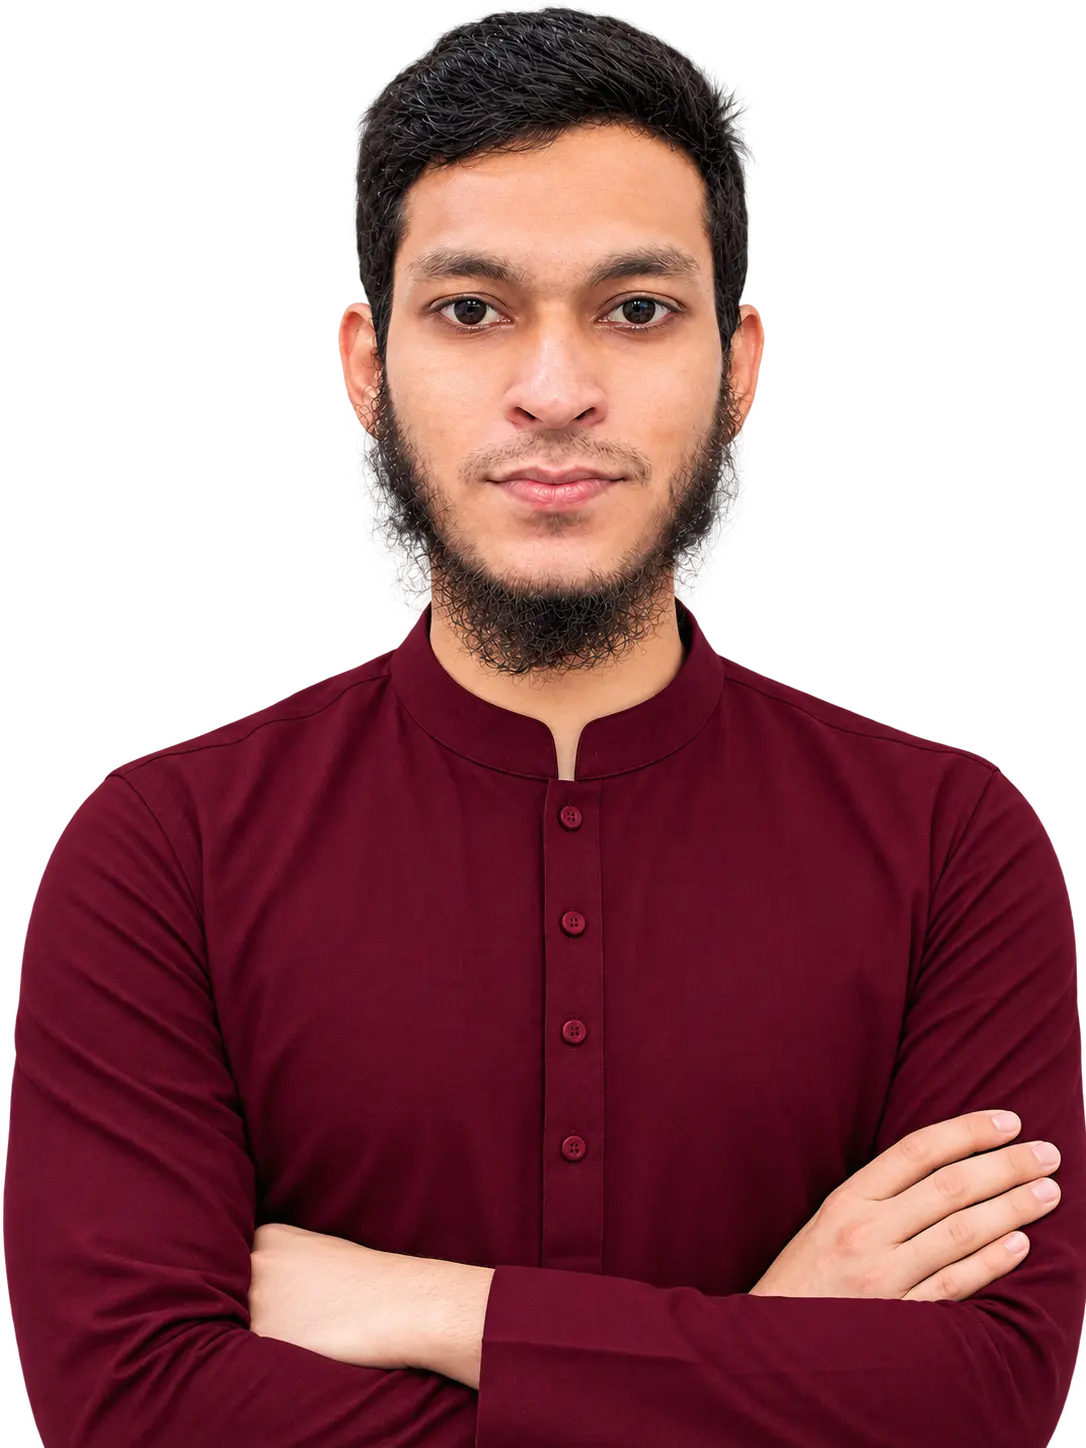
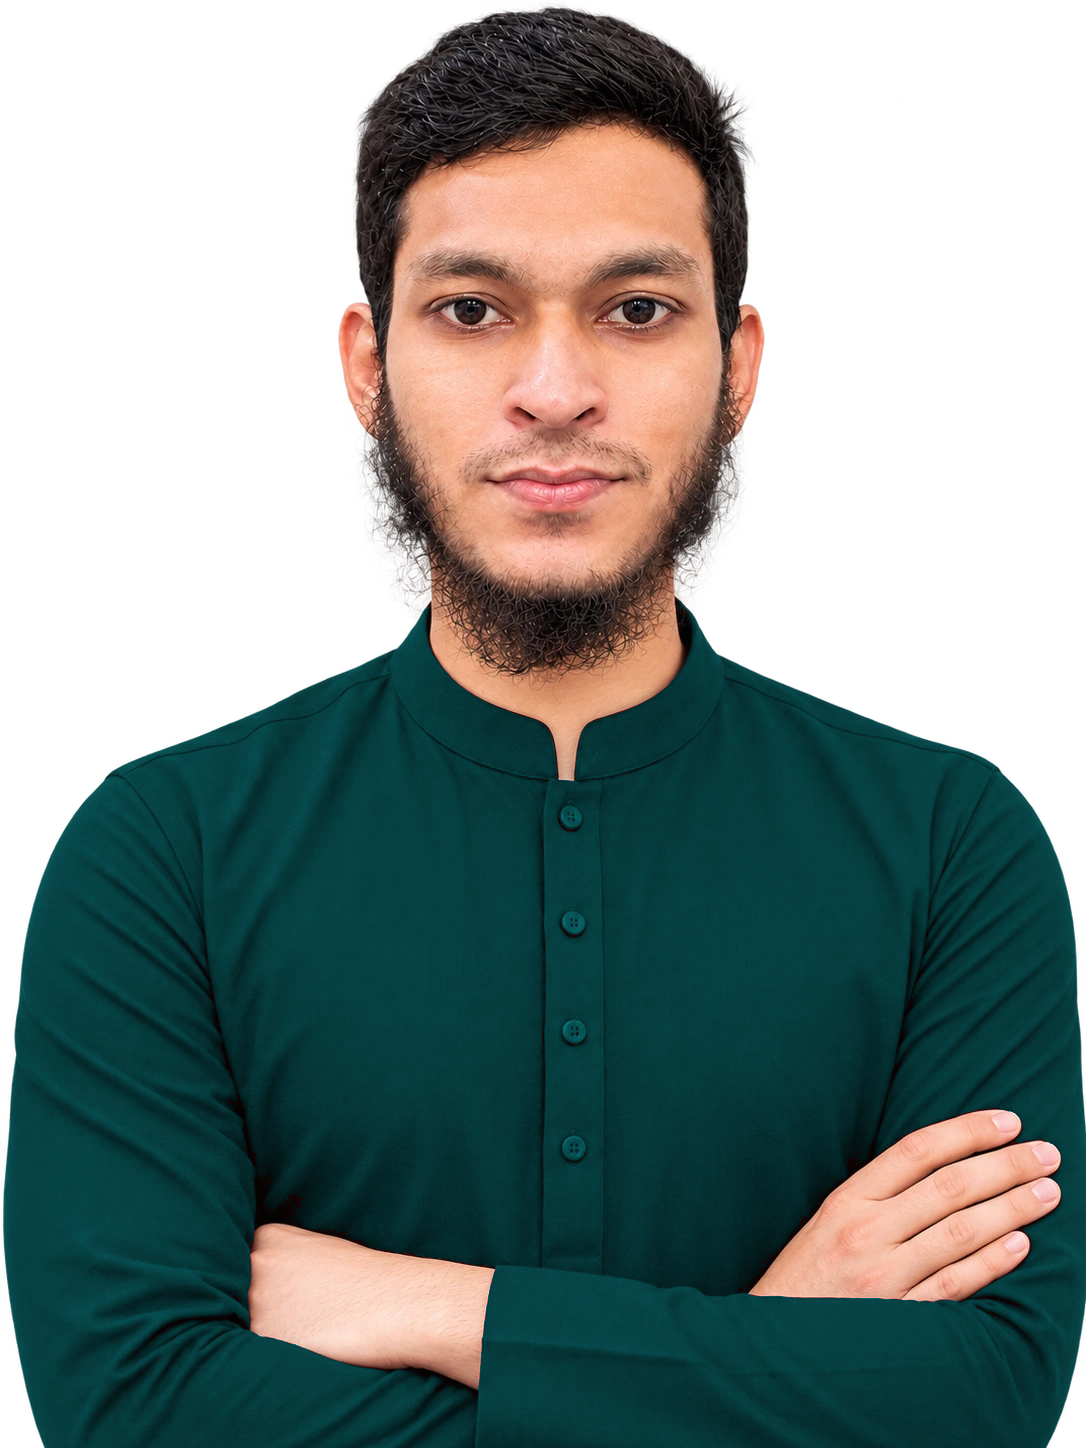
s

diff --git a/css/templatemo-style.css b/css/templatemo-style.css
@@ -1,5 +1,5 @@
 :root {
-	--color-main: #571321;
+	--color-main: #032d2f;
 	--color-0: #a50021;
 	--color-1: #032d2f;
 	--color-2: #ffffff;
